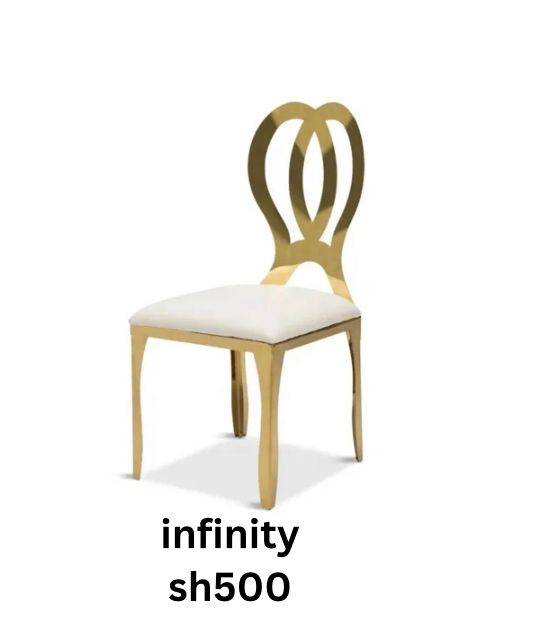
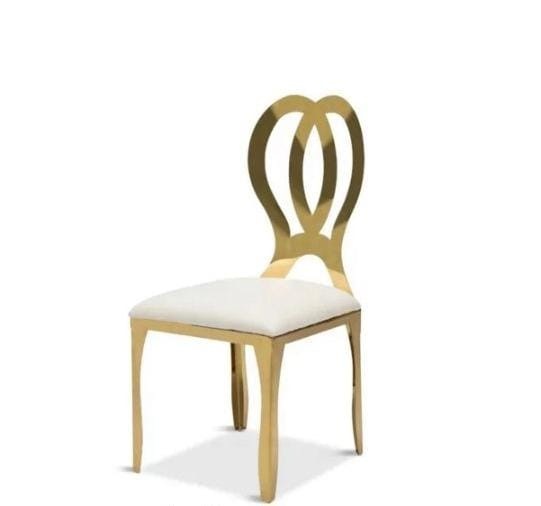
update chairs category

Changed region(s): [[0.207, 0.1482, 0.6802, 1.0]]

diff --git a/src/pages/ExploreCategories.jsx b/src/pages/ExploreCategories.jsx
@@ -52,7 +52,7 @@ const ExploreCategories = () => {
       itemCount: 15
     },
     {
-      id: 'backdrops',
+      id: 'balloon backdrops',
       name: 'Backdrops & Walls',
       icon: '🎭',
       color: 'from-orange-500 to-red-500',
@@ -90,7 +90,40 @@ const ExploreCategories = () => {
       color: 'from-rose-500 to-pink-500',
       description: 'Fresh and artificial floral decorations',
       itemCount: 30
+    },
+    {
+      id: 'cutlery',
+      name: 'Cutlery & Tableware',
+      icon: '🍽',
+      color: 'from-gray-500 to-slate-500',
+      description: 'Elegant cutlery and tableware for your events',
+      itemCount: 10
+    },
+    {
+      id: 'candle stands',
+      name: 'Candle Stands & Holders',
+      icon: '🕯',
+      color: 'from-amber-500 to-yellow-500',
+      description: 'Elegant candle stands and holders for your events',
+      itemCount: 12
+    },
+    {
+      id: 'flower centrepieces',
+      name: 'Flower Centrepieces',
+      icon: '�',
+      color: 'from-pink-500 to-rose-500',
+      description: 'Beautiful floral arrangements for your tables',
+      itemCount: 15
+    },
+  {
+      id: 'kids-activities',
+      name: 'Kids Activities',
+      icon: '🎈',
+      color: 'from-pink-500 to-rose-500',
+      description: 'Fun and engaging activities for children',
+      itemCount: 10
     }
+  
   ];
 
   const items = {
@@ -145,10 +178,10 @@ const ExploreCategories = () => {
       },
       {
         id: 'c2',
-        name: 'Ghost Acrylic Chairs',
+        name: 'Paris',
         price: 450,
         capacity: 'Per chair',
-        image: 'from-blue-300 to-blue-500',
+        image: '/paris.png',
         rating: 4.8,
         pros: ['Modern design', 'Space illusion', 'Easy cleaning', 'Weather resistant'],
         cons: ['Show fingerprints', 'Limited comfort'],
@@ -156,23 +189,168 @@ const ExploreCategories = () => {
       },
       {
         id: 'c3',
-        name: 'Vintage Wooden Chairs',
+        name: 'Aria Purple',
         price: 280,
         capacity: 'Per chair',
-        image: 'from-amber-400 to-amber-600',
+        image: '/aria-purple.png',
+        rating: 4.6,
+        pros: ['Rustic charm', 'Comfortable', 'Affordable', 'Photo-friendly'],
+        cons: ['Weather sensitive', 'Heavier weight'],
+        features: ['Solid wood', 'Natural finish', 'Cushion compatible', 'Vintage style']
+      },
+    
+      {
+        id: 'c4',
+        name: 'Chiavari White',
+        price: 400,
+        capacity: 'Per chair',
+        image: '/chiavari-white.png',
+        rating: 4.9,
+        pros: ['Classic elegance', 'Lightweight', 'Stackable', 'Versatile'],
+        cons: ['Higher cost', 'Requires cushions'],
+        features: ['Wood or resin', 'Multiple colors', 'Event standard', 'Durable']
+      },
+      {
+        id: 'c5',
+        name: 'Clear Ghost',
+        price: 500,
+        capacity: 'Per chair',
+        image: '/clear-ghost.png',
+        rating: 4.7,
+        pros: ['Modern look', 'Space-saving', 'Easy to clean', 'Weather resistant'],
+        cons: ['Show fingerprints', 'Limited comfort'],
+        features: ['Clear acrylic', 'Contemporary design', 'Stackable', 'Indoor/outdoor']
+      },
+      {
+        id: 'c6',
+        name: 'White Ghost',
+        price: 200,
+        capacity: 'Per chair',
+        image: '/white-ghost.png',
+        rating: 4.5,
+        pros: ['Compact', 'Easy storage', 'Affordable', 'Lightweight'],
+        cons: ['Basic design', 'Limited comfort'],
+        features: ['Metal frame', 'Wooden seat', 'Folding mechanism', 'Indoor/outdoor']
+      },
+      {
+        id: 'c7',
+        name: 'Black Ghost',
+        price: 150,
+        capacity: 'Per chair',
+        image: '/black-ghost.png',
+        rating: 4.6,
+        pros: ['Rustic charm', 'Comfortable', 'Affordable', 'Photo-friendly'],
+        cons: ['Weather sensitive', 'Heavier weight'],
+        features: ['Solid wood', 'Natural finish', 'Cushion compatible', 'Vintage style']
+      },
+      {
+        id: 'c8',
+        name: 'Chiavari Gold',
+        price: 600,
+        capacity: 'Per chair',
+        image: '/chiavari-gold.png',
+        rating: 4.8,
+        pros: ['Luxury look', 'Lightweight', 'Stackable', 'Versatile'],
+        cons: ['Higher cost', 'Requires cushions'],
+        features: ['Wood or resin', 'Gold finish', 'Event standard', 'Durable']
+      },
+      {
+        id: 'c9',
+        name: 'Black Vogue',
+        price: 300,
+        capacity: 'Per chair',
+        image: '/black-vogue.png',
+        rating: 4.7,
+        pros: ['Elegant design', 'Comfortable', 'Stackable', 'Durable'],
+        cons: ['Higher cost', 'Requires cushions'],
+        features: ['Resin material', 'Blue finish', 'Lightweight', 'Event standard']
+      },
+      {
+        id: 'c10',
+        name: 'White Jade',
+        price: 300,
+        capacity: 'Per chair',
+        image: '/white-jade.png',
+        rating: 4.7,
+        pros: ['Elegant design', 'Comfortable', 'Stackable', 'Durable'],
+        cons: ['Higher cost', 'Requires cushions'],
+        features: ['Resin material', 'White finish', 'Lightweight', 'Event standard']
+      },
+      {
+        id: 'c11',
+        name: 'Clear Jade',
+        price: 300,
+        capacity: 'Per chair',
+        image: '/clear-jade.png',
+        rating: 4.7,
+        pros: ['Elegant design', 'Comfortable', 'Stackable', 'Durable'],
+        cons: ['Higher cost', 'Requires cushions'],
+        features: ['Resin material', 'Gold finish', 'Lightweight', 'Event standard']
+      },
+      {
+        id: 'c12',
+        name: 'O Back',
+        price: 300,
+        capacity: 'Per chair',
+        image: '/o-back-gold.png',
+        rating: 4.7,
+        pros: ['Elegant design', 'Comfortable', 'Stackable', 'Durable'],
+        cons: ['Higher cost', 'Requires cushions'],
+        features: ['Resin material', 'Gold finish', 'Lightweight', 'Event standard']
+      },
+      {
+        id: 'c13',
+        name: 'O Back Black',
+        price: 300,
+        capacity: 'Per chair',
+        image: '/o-back-black.png',
+        rating: 4.7,
+        pros: ['Elegant design', 'Comfortable', 'Stackable', 'Durable'],
+        cons: ['Higher cost', 'Requires cushions'],
+        features: ['Resin material', 'Gold finish', 'Lightweight', 'Event standard']
+      },
+      {
+        id: 'c14',
+        name: 'Infinity',
+        price: 300,
+        capacity: 'Per chair',
+        image: '/infinity.png',
+        rating: 4.7,
+        pros: ['Elegant design', 'Comfortable', 'Stackable', 'Durable'],
+        cons: ['Higher cost', 'Requires cushions'],
+        features: ['Resin material', 'Gold finish', 'Lightweight', 'Event standard']
+      },
+      {
+        id: 'c15',
+        name: 'Aria',
+        price: 450,
+        capacity: 'Per chair',
+        image: '/aria.png',
+        rating: 4.8,
+        pros: ['Modern design', 'Space illusion', 'Easy cleaning', 'Weather resistant'],
+        cons: ['Show fingerprints', 'Limited comfort'],
+        features: ['Clear acrylic', 'Contemporary style', 'Stackable', 'Indoor/outdoor']
+      },
+      {
+        id: 'c16',
+        name: 'Aria Pink',
+        price: 280,
+        capacity: 'Per chair',
+        image: '/aria-pink.png',
         rating: 4.6,
         pros: ['Rustic charm', 'Comfortable', 'Affordable', 'Photo-friendly'],
         cons: ['Weather sensitive', 'Heavier weight'],
         features: ['Solid wood', 'Natural finish', 'Cushion compatible', 'Vintage style']
       }
+
     ],
     balloons: [
       {
         id: 'b1',
-        name: 'Premium Balloon Arch',
+        name: 'Aria Pink',
         price: 5500,
         capacity: '4m wide arch',
-        image: 'from-pink-400 to-purple-600',
+        image: '/aria-pink.png',
         rating: 4.9,
         popular: true,
         pros: ['Eye-catching', 'Customizable colors', 'Photo backdrop', 'Long-lasting'],
@@ -260,14 +438,14 @@ const ExploreCategories = () => {
 
   if (selectedItem) {
     return (
-      <div className="min-h-screen bg-gradient-to-br from-slate-900 via-purple-900 to-slate-900 text-white">
+      <div className="min-h-screen mt-6 bg-black to-slate-900 text-white">
         {/* Item Detail View */}
         <div className="relative">
           <button
             onClick={() => setSelectedItem(null)}
             className="fixed top-6 left-6 z-50 w-12 h-12 bg-white/10 backdrop-blur-lg rounded-full flex items-center justify-center hover:bg-white/20 transition-all duration-300"
           >
-            <ArrowLeft className="w-6 h-6" />
+            <ArrowLeft className="w-6 h-6 text-black" />
           </button>
 
           <div className="pt-20 pb-12">
@@ -281,7 +459,7 @@ const ExploreCategories = () => {
                     <div className="absolute inset-0 flex items-center justify-center">
                       <div className="text-center text-white">
                         <Eye className="w-16 h-16 mx-auto mb-4 opacity-60" />
-                        <p className="text-lg font-medium">Product Preview</p>
+                        {/* <p className="text-lg font-medium">Product Preview</p> */}
                       </div>
                     </div>
                   </div>
@@ -402,7 +580,7 @@ const ExploreCategories = () => {
 
   if (selectedCategory) {
     return (
-      <div className="min-h-screen bg-gradient-to-br from-slate-900 via-purple-900 to-slate-900 text-white font-merienda">
+      <div className="min-h-screen mt-6 bg-black to-slate-900 text-white font-merienda">
         {/* Category Items View */}
         <div className="relative">
           <button
@@ -524,16 +702,16 @@ const ExploreCategories = () => {
   }
 
   return (
-    <div className="min-h-screen bg-gradient-to-br from-slate-900 via-purple-900 to-slate-900 text-white">
+    <div className="min-h-screen bg-black text-white">
       {/* Categories Overview */}
       <div className="pt-20 pb-12">
         <div className="max-w-7xl mx-auto px-4 sm:px-6 lg:px-8">
           {/* Header */}
           <div className="text-center mb-16">
-            <h1 className="text-6xl font-bold mb-6 bg-gradient-to-r from-purple-400 to-pink-400 bg-clip-text text-transparent">
+            <h1 className="text-6xl mt-2 font-bold mb-6 bg-gradient-to-r from-purple-400 to-pink-400 bg-clip-text text-transparent font-merienda">
               Explore Categories
             </h1>
-            <p className="text-xl text-gray-300 max-w-3xl mx-auto">
+            <p className="text-xl text-gray-300 max-w-3xl mx-auto font-poiret">
               Discover our comprehensive collection of premium event equipment and decorations. 
               Each category features detailed specifications, pricing, and professional insights.
             </p>
@@ -554,11 +732,11 @@ const ExploreCategories = () => {
                     {category.icon}
                   </div>
                   
-                  <h3 className="text-xl font-bold mb-3 group-hover:text-purple-300 transition-colors duration-300">
+                  <h3 className="text-xl font-bold mb-3 group-hover:text-purple-300 transition-colors duration-300 font-merienda">
                     {category.name}
                   </h3>
                   
-                  <p className="text-gray-400 text-sm mb-4 leading-relaxed">
+                  <p className="text-gray-400 text-sm mb-4 leading-relaxed font-poiret">
                     {category.description}
                   </p>
                   
